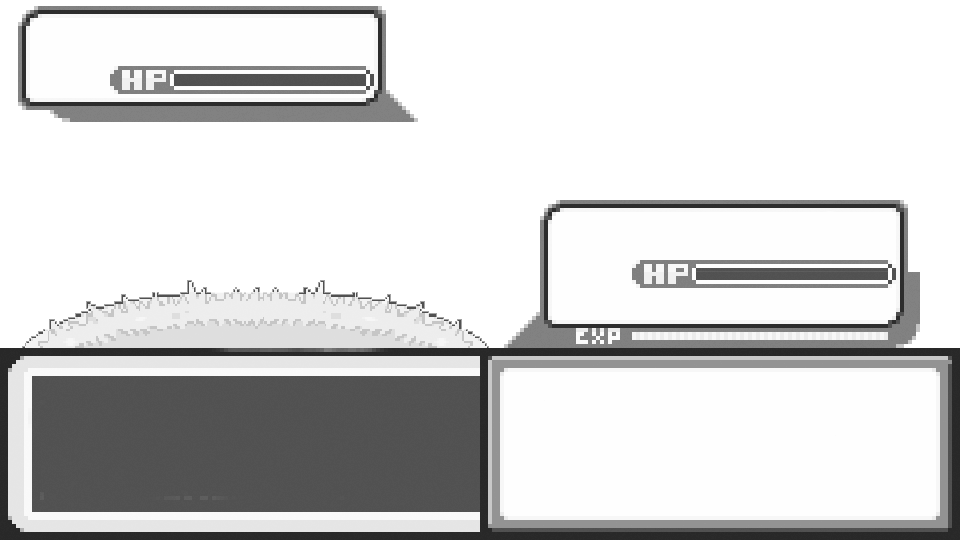
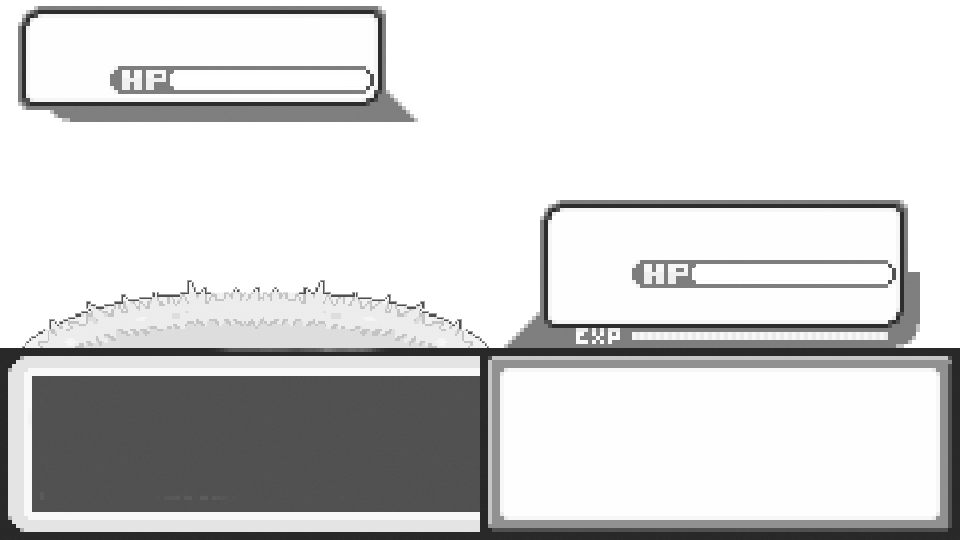
hp bars now updates with time and date

Changed region(s): [[0.7188, 0.4741, 0.9375, 0.5333], [0.1875, 0.1185, 0.375, 0.1778]]

diff --git a/src/main.cpp b/src/main.cpp
@@ -7,13 +7,9 @@
 #include <PNGdec.h>
 #include <ArduinoJson.h>
 #include <vector>
-#include <SD.h> // TODO READ THE IMAGES FROM SD CARD
+#include <SD.h>
+#include <SPI.h>
 
-// #include "../fonts/opensans26b.h"
-#include "../fonts/astrolyt60.h"
-#include "../fonts/astrolyt250_nums.h"
-#include "../fonts/opensans16b.h"
-#include "../fonts/astrolyt40b.h"
 #include "../fonts/pokemongb40.h"
 #include "../fonts/pokemongb30.h"
 #include "../fonts/pokemongb16.h"
@@ -25,6 +21,7 @@
 
 #define EPD_WIDTH  960
 #define EPD_HEIGHT 540
+#define FILESYSTEM SD
 
 // ------------Config ------------
 const char* ssid     = WIFI_SSID;
@@ -40,7 +37,8 @@ const uint16_t pokemonSize = 200;
 const char* ENTITY_DATE = "sensor.date";
 const char* ENTITY_WEEKDAY = "sensor.weekday";
 const char* ENTITY_WEATHER = "weather.forecast_home"; 
-const char* ENTITY_CALENDAR = "calendar.personal"; // PLACEHOLDER
+const char* ENTITY_CALENDAR = "calendar.personal"; 
+const char* ENTITY_TIME = "sensor.time";
 
 const GFXfont DEFAULT_FONT = PokemonGB_16;
 // ------------Layout ------------
@@ -124,16 +122,32 @@ const Rect_t pkmnRect_base = {
     .width = 510,
     .height = 130
 };
+const Rect_t player_hp = {
+    .x = 696,
+    .y = 267,
+    .width = 190,
+    .height = 13
+};
+const Rect_t pkmn_hp = {
+    .x = 174,
+    .y = 74,
+    .width = 190,
+    .height = 13
+};
 
 // ------------Globals ------------
 uint8_t *framebuffer = nullptr;
 JPEGDEC jpeg;
 PNG png;
+bool sdCard = false;
 
-char* imgUrl = "http://homeassistant.local:8123/local/pokemonCalendar/";//clear-night.png";
-char* playerUrl = "http://homeassistant.local:8123/local/pokemonCalendar/player.png";
-char* sceneURL = "http://homeassistant.local:8123/local/pokemonCalendar/scene.png";
-char * baseURL = "http://homeassistant.local:8123/local/pokemonCalendar/base.png";
+char* imgUrl = "http://homeassistant.local:8123/local/pokemonCalendar/";
+char* scenePath = "scene.png"; // "http://homeassistant.local:8123/local/pokemonCalendar/scene.png";
+char* basePath = "base.png"; // "http://homeassistant.local:8123/local/pokemonCalendar/base.png";
+char* sdRootDir = "/HACalendar" ;
+char* baseImgFile = "base.png";
+char* errorPath = "error.png";
+
 
 struct ImageDrawContext {
     Rect_t rect;
@@ -212,17 +226,6 @@ inline void writePixel(int imgX, int imgY, uint8_t gray) {
     epd_draw_pixel(epx,epy,gray,framebuffer);
 }
 
-void drawArea(const Rect_t& rect, uint8_t* imageData) {
-    // For simplicity, let's assume imageData is a raw bitmap matching rect dimensions
-    for (int y = 0; y < rect.height; y++) {
-        for (int x = 0; x < rect.width; x++) {
-            int idx = y * rect.width + x;
-            uint8_t color = imageData[idx];
-            epd_draw_pixel(rect.x + x, rect.y + y, color, framebuffer);
-        }
-    }
-}  
-
 int jpegDrawCallback(JPEGDRAW *pDraw) {
     for (int y = 0; y < pDraw->iHeight; y++) {
         for (int x = 0; x < pDraw->iWidth; x++) {
@@ -271,91 +274,32 @@ ImageType detectImageType(uint8_t *buf, int len) {
     if (len < 4) return IMG_UNKNOWN;
     if (buf[0] == 0xFF && buf[1] == 0xD8 && buf[2] == 0xFF) return IMG_JPEG;
     if (buf[0] == 0x89 && buf[1] == 0x50 && buf[2] == 0x4E && buf[3] == 0x47) return IMG_PNG;
-    if (buf[0] == 0x42 && buf[1] == 0x4D) return IMG_BMP;
     return IMG_UNKNOWN;
 }
 
-void drawBMP(uint8_t *buf, int len) {
-    if (len < 54) { Serial.println("ERROR: BMP too small"); return; }
-
-    uint32_t dataOffset  = buf[10] | (buf[11] << 8) | (buf[12] << 16) | (buf[13] << 24);
-    uint32_t headerSize  = buf[14] | (buf[15] << 8) | (buf[16] << 16) | (buf[17] << 24);
-    int32_t  imgWidth    = buf[18] | (buf[19] << 8) | (buf[20] << 16) | (buf[21] << 24);
-    int32_t  imgHeight   = buf[22] | (buf[23] << 8) | (buf[24] << 16) | (buf[25] << 24);
-    uint16_t bpp         = buf[28] | (buf[29] << 8);
-    uint32_t compression = buf[30] | (buf[31] << 8) | (buf[32] << 16) | (buf[33] << 24);
-
-    Serial.printf("BMP: %dx%d, %d bpp\n", imgWidth, imgHeight, bpp);
-
-    if (compression != 0) { Serial.println("ERROR: Compressed BMP not supported"); return; }
-    if (bpp != 24 && bpp != 4) { Serial.printf("ERROR: BMP bpp %d not supported (need 4 or 24)\n", bpp); return; }
-
-    imgDrawCtx.imgWidth  = imgWidth;
-    imgDrawCtx.imgHeight = abs(imgHeight);
-
-    bool topDown = imgHeight < 0;
-
-    if (bpp == 24) {
-        int rowSize = ((imgWidth * 3 + 3) / 4) * 4;
-        for (int row = 0; row < abs(imgHeight); row++) {
-            int srcRow = topDown ? row : (abs(imgHeight) - 1 - row);
-            uint8_t *rowPtr = buf + dataOffset + srcRow * rowSize;
-            for (int x = 0; x < imgWidth; x++) {
-                uint8_t b    = rowPtr[x * 3 + 0];
-                uint8_t g    = rowPtr[x * 3 + 1];
-                uint8_t r    = rowPtr[x * 3 + 2];
-                uint8_t gray = (r * 299 + g * 587 + b * 114) / 1000;
-                writePixel(x, row, gray);
-            }
-        }
-    } else { // bpp == 4
-        uint8_t *palette = buf + 14 + headerSize; // 16 entries x 4 bytes (B,G,R,0)
-
-        // Precompute 16-entry grayscale lookup from palette
-        uint8_t grayLUT[16];
-        for (int i = 0; i < 16; i++) {
-            uint8_t b = palette[i * 4 + 0];
-            uint8_t g = palette[i * 4 + 1];
-            uint8_t r = palette[i * 4 + 2];
-            grayLUT[i] = (r * 299 + g * 587 + b * 114) / 1000;
-        }
-
-        int rowSize = (((imgWidth + 1) / 2) + 3) & ~3; // padded to 4 bytes
-        for (int row = 0; row < abs(imgHeight); row++) {
-            int srcRow = topDown ? row : (abs(imgHeight) - 1 - row);
-            uint8_t *rowPtr = buf + dataOffset + srcRow * rowSize;
-
-            // Scale destination row once per row
-            int ry = (row * imgDrawCtx.rect.height) / imgDrawCtx.imgHeight;
-            int epy = imgDrawCtx.rect.y + ry;
-            if (epy >= EPD_HEIGHT) continue;
-
-            for (int x = 0; x < imgWidth; x++) {
-                uint8_t byte = rowPtr[x / 2];
-                uint8_t idx  = (x % 2 == 0) ? (byte >> 4) : (byte & 0x0F);
-                uint8_t gray = grayLUT[idx];
-
-                int rx  = (x * imgDrawCtx.rect.width) / imgDrawCtx.imgWidth;
-                int epx = imgDrawCtx.rect.x + rx;
-                if (epx >= EPD_WIDTH) continue;
-
-                // Write 4-bit gray level directly to framebuffer
-                uint8_t level = gray >> 4;
-                int byteIndex = (epy * EPD_WIDTH + epx) / 2;
-                if (epx % 2 == 0)
-                    framebuffer[byteIndex] = (framebuffer[byteIndex] & 0x0F) | (level << 4);
-                else
-                    framebuffer[byteIndex] = (framebuffer[byteIndex] & 0xF0) | level;
-            }
-        }
-    }
-}
 
 void drawImage(const char* url, const Rect_t& rect) {
     imgDrawCtx.rect = rect;
 
     int bytesRead = 0;
-    uint8_t *imgBuf = downloadImage(url, bytesRead);
+    uint8_t *imgBuf;
+    if (!sdCard){
+        String imgPath = String(imgUrl) + url;
+        imgBuf = downloadImage(imgPath.c_str(), bytesRead);
+    } else {
+        String imgPath = String(sdRootDir) + "/" + url;
+        File imgFile = FILESYSTEM.open(imgPath.c_str(), "r");
+        if (!imgFile) {
+            Serial.println("File not found!");
+            imgPath = String(sdRootDir) + "/" + errorPath;
+            imgFile = FILESYSTEM.open(imgPath.c_str(), "r");
+        }
+        bytesRead = imgFile.size();
+        imgBuf = (uint8_t*)heap_caps_malloc(bytesRead, MALLOC_CAP_8BIT | MALLOC_CAP_INTERNAL);
+        if (!imgBuf) imgBuf = (uint8_t*)heap_caps_malloc(bytesRead, MALLOC_CAP_SPIRAM);
+        if (imgBuf) imgFile.read(imgBuf, bytesRead);
+        imgFile.close();
+    }
     if (!imgBuf) return;
 
     switch (detectImageType(imgBuf, bytesRead)) {
@@ -394,10 +338,7 @@ void drawImage(const char* url, const Rect_t& rect) {
 
  
 // ----------- Drawing helpers -----------
- 
-// Draw a rectangle border around a Rect_t area
-// thickness: number of pixels for the border (1 = single pixel)
-// color: 0=black, 255=white
+
 void drawRect(const Rect_t& rect, uint8_t thickness = 1, uint8_t color = 0) {
     for (uint8_t t = 0; t < thickness; t++) {
         // top
@@ -475,7 +416,7 @@ HAEntity fetchHAEntity(const char* entity_id) {
     return result;
 }
 
-// Convenience wrapper for simple state-only sensors
+// simple state-only sensors
 String fetchHASensorState(const char* entity_id) {
     return fetchHAEntity(entity_id).state;
 }
@@ -590,6 +531,7 @@ void drawTextArea(const Rect_t& rect, const char* text, const GFXfont* font = &D
     }
 }
 
+
 void drawCalendar(){
     String dateStr = fetchHASensorState(ENTITY_DATE);
     if (dateStr.isEmpty()) {
@@ -622,19 +564,19 @@ void drawCalendar(){
     drawTextArea(calendarRect, display.c_str(), &PokemonGB_12);
 }
 
-void drawPkmn(){
+void drawPkmn(const char* imgPath){
     epd_clear_area(pkmnRect);
-    drawImage(baseURL, pkmnRect_base);
-    drawImage(imgUrl, pkmnRect);
+    drawImage(basePath, pkmnRect_base);
+    drawImage(imgPath, pkmnRect);
 }
 
 void drawScene(){
         String weekdayStr = fetchHASensorState(ENTITY_WEEKDAY);
-        static char weekdayUrl[128];
+        static char weekdayUrl[64];
         snprintf(weekdayUrl, sizeof(weekdayUrl),
-        "http://homeassistant.local:8123/local/pokemonCalendar/%s.png",
+        "%s.png",
         weekdayStr.c_str());
-        drawImage(sceneURL, epd_full_screen());
+        drawImage(scenePath, epd_full_screen());
         epd_clear_area(pkmnRect_playerbase);
         drawImage(weekdayUrl, pkmnRect_player);
         
@@ -656,13 +598,10 @@ void drawWeather() {
         Serial.println("Weather unchanged, skipping redraw");
         return;
     }
+    static char weatherPath[64];
+    snprintf(weatherPath, sizeof(weatherPath), "%s.png", weather.condition.c_str());
 
-    static char weatherImgUrl[128];
-    snprintf(weatherImgUrl, sizeof(weatherImgUrl),
-        "http://homeassistant.local:8123/local/pokemonCalendar/%s.png",
-        weather.condition.c_str());
-    imgUrl = weatherImgUrl;
-    drawPkmn();
+    drawPkmn(weatherPath);
     drawTextArea(weatherConditionRect, weather.condition.c_str());
 
     // Temperature
@@ -674,6 +613,16 @@ void drawWeather() {
     drawTextArea(weatherHumidRect, humStr.c_str());
 
     strcpy(lastWeatherStr, weatherStr.c_str());
+}
+
+void drawTime(){
+    String timeNow = fetchHASensorState(ENTITY_TIME);
+    String hour = timeNow.substring(0,2);
+    // Serial.println(hour);
+    uint8_t hpLenght = player_hp.width * (24-hour.toInt())/24;
+    epd_fill_rect(player_hp.x,player_hp.y,player_hp.width,player_hp.height,255,framebuffer);
+    epd_fill_rect(player_hp.x,player_hp.y,hpLenght,player_hp.height,50,framebuffer);
+
 }
 
 void drawDate() {
@@ -688,12 +637,18 @@ void drawDate() {
         return;
     }
     drawScene();
+
     Serial.println("Updating DATE!");
     // Date fromat 2020-12-31
     String day = dateStr.substring(8,10);
     String month = dateStr.substring(5,7);
     String year = dateStr.substring(0,4);
- 
+
+    // Foe's hp is how much of the month is left
+    uint8_t hpLenght = pkmn_hp.width * (31-day.toInt())/31;
+    epd_fill_rect(pkmn_hp.x,pkmn_hp.y,pkmn_hp.width,pkmn_hp.height,255,framebuffer);
+    epd_fill_rect(pkmn_hp.x,pkmn_hp.y,hpLenght,pkmn_hp.height,50,framebuffer);
+
     epd_clear_area(DateRect);
     epd_fill_rect(DateRect.x-10, DateRect.y, DateRect.width+20, DateRect.height, 70, framebuffer);
     drawTextArea(DateRect_day, day.c_str(), &PokemonGB_30, 0, 0, true);
@@ -717,15 +672,26 @@ void setup() {
     while (WiFi.status() != WL_CONNECTED) { delay(300); Serial.print("."); }
     Serial.printf("\nConnected to %s! \nIP: %s\n", ssid, WiFi.localIP().toString().c_str());
 
+    SPI.begin(SD_SCLK, SD_MISO, SD_MOSI);
+    bool SDready = FILESYSTEM.begin(SD_CS, SPI);
+    if (!SDready){
+        Serial.println("SD Not detected!");
+        sdCard = false;
+    } else {
+        Serial.println("SD Card Initialized!");
+        sdCard = true;
+    }
+
     drawInitScreen();
     //drawScene();
     drawDate();
     drawWeather();
     drawCalendar();
+    drawTime();
     epd_draw_image(epd_full_screen(), framebuffer, BLACK_ON_WHITE);
 }
     
 void loop() {
-    esp_sleep_enable_timer_wakeup(60ULL * 30 * 1000000); // change to 60 
+    esp_sleep_enable_timer_wakeup(60ULL * 30 * 1000000);
     esp_deep_sleep_start();
 }

diff --git a/README.md b/README.md
@@ -11,7 +11,8 @@ A Pokemon-themed e-paper dashboard for the **LilyGo T5 4.7" e-paper display** (E
 - Today's calendar events from a HA calendar entity
 - Pokemon battle scene background that changes by weekday
 - Pokemon sprite that changes with weather condition
-- Wakes every hour via deep sleep, then refreshes the display
+- Wakes every half hour via deep sleep, then refreshes the display
+- HP bars represents how much of the day is left and how much of the month is left
 
 ---
 
